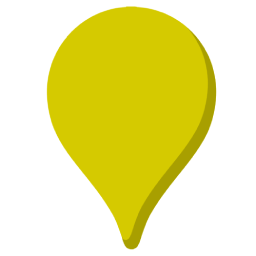
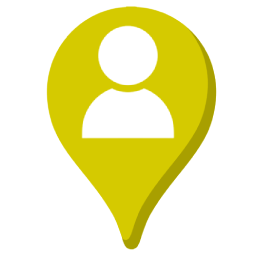
improved map

Changed region(s): [[0.3125, 0.0938, 0.6875, 0.5625]]

diff --git a/public/js/map.js b/public/js/map.js
@@ -1,0 +1,127 @@
+var map = null;
+var pointers = [];
+var userPointer = { img: 'img/me_icon.png', coord_x: 0, coord_y: 0, name: 'Nombre de Usuario' };
+var userLayer = null;
+var pointersLayer = null;
+
+
+window.onload = function () {
+    var map = initMap();
+    
+    requestGeoLocationPermission().then(() => {
+        getGeoLocation().then(position => {
+            map.setView([position.lat, position.lng], 15);
+        }).catch(error => {
+            console.error(error);
+        });
+    }).catch(error => {
+        console.error('Permission denied: ', error);
+    });
+
+    UpdateUserLocation();
+    setInterval(UpdateUserLocation, 2000);
+}
+
+function initMap() {
+    map = L.map('background', { zoomControl: false }).fitWorld();
+
+    L.tileLayer('https://tile.openstreetmap.org/{z}/{x}/{y}.png', {
+        maxZoom: 19,
+        attribution: '© OpenStreetMap'
+    }).addTo(map);
+
+    map.getContainer().style.zIndex = 0;
+
+    userLayer = L.layerGroup().addTo(map);
+    pointersLayer = L.layerGroup().addTo(map);
+
+    return map;
+}
+
+function getGeoLocation() {
+    return new Promise((resolve, reject) => {
+        if (!navigator.geolocation) {
+            reject(new Error('Geolocation is not supported by your browser'));
+        } else {
+            navigator.geolocation.getCurrentPosition((position) => {
+                resolve({
+                    lat: position.coords.latitude,
+                    lng: position.coords.longitude
+                });
+            }, () => {
+                reject(new Error('Unable to retrieve your location'));
+            });
+        }
+    });
+}
+
+function requestGeoLocationPermission() {
+    if (!navigator.permissions) {
+        // La API de Permisos no está disponible en todos los navegadores.
+        return Promise.reject(new Error('Permissions API is not available'));
+    }
+
+    return navigator.permissions.query({ name: 'geolocation' }).then(result => {
+        if (result.state === 'granted') {
+            return Promise.resolve();
+        } else if (result.state === 'prompt') {
+            return getGeoLocation().then(() => Promise.resolve());
+        } else {
+            return Promise.reject(new Error('Permission denied'));
+        }
+    });
+}
+
+function UpdateUserLocation() {
+    getGeoLocation().then(position => {
+        userPointer.coord_x = position.lat;
+        userPointer.coord_y = position.lng;
+
+        userLayer.clearLayers();
+
+        var icon = L.icon({
+            iconUrl: userPointer.img,
+            iconSize: [96, 96],
+            iconAnchor: [48, 96]
+        });
+
+        L.marker([userPointer.coord_x, userPointer.coord_y], { icon: icon })
+            .bindTooltip(userPointer.name, { // Asume que cada puntero tiene una propiedad 'name'
+                permanent: true, // El texto siempre será visible
+                direction: 'center', // El texto aparecerá en el centro del marcador
+                offset: [-80, -48], // Desplaza el texto hacia arriba para que esté en el centro de la imagen
+                className: 'my-tooltip' // Asigna una clase personalizada al tooltip
+            })
+            .addTo(userLayer);
+
+    }).catch(error => {
+        console.error(error);
+    });
+}
+
+function UpdateMapPointers() {
+    pointersLayer.clearLayers();
+    for (var i = 0; i < pointers.length; i++) {
+        var icon = L.icon({
+            iconUrl: pointers[i].img,
+            iconSize: [64, 64],
+            iconAnchor: [32, 64]
+        });
+        L.marker([pointers[i].coord_x, pointers[i].coord_y], { icon: icon })
+            .bindTooltip(pointers[i].name, { // Asume que cada puntero tiene una propiedad 'name'
+                permanent: true, // El texto siempre será visible
+                direction: 'center', // El texto aparecerá en el centro del marcador
+                offset: [-64, -32], // Desplaza el texto hacia arriba para que esté en el centro de la imagen
+                className: 'my-tooltip' // Asigna una clase personalizada al tooltip
+            })
+            .addTo(pointersLayer);
+    }
+}
+
+function zoomIn() {
+    map.zoomIn();
+}
+
+function zoomOut() {
+    map.zoomOut();
+}

diff --git a/public/css/styles.css b/public/css/styles.css
@@ -51,10 +51,19 @@ body {
 
 }
 
+#background {
+    width: 100%;
+    height: 100%;
+    background-color: rgb(159, 159, 159);
+}
+
 
 header {
     height: fit-content;
     width: 100%;
+    position: absolute;
+    top: 0;
+    left: 0;
 }
 
 .header-searchbar {
@@ -141,20 +150,24 @@ footer {
     width: 100%;
     position: absolute;
     bottom: 0;
+    pointer-events: none;
 }
 
 .footer-buttons {
     width: 100%;
     height: 250px;
     position: relative;
+    user-select: none;
+    pointer-events: none;
 }
 
 .footer-small-buttons,
 .footer-big-buttons {
-    width: 25%;
+    width: fit-content;
     height: fit-content;
     display: flex;
     flex-direction: column;
+    pointer-events: all;
 }
 
 .footer-small-buttons {
@@ -175,8 +188,8 @@ footer {
 }
 
 .footer-small-button {
-    width: 50px;
-    height: 50px;
+    width: 40px;
+    height: 40px;
     background-color: white;
     border-radius: 1000px;
     box-shadow: 0px 0px 6px rgba(0, 0, 0, 0.5);
@@ -188,14 +201,14 @@ footer {
 }
 
 .footer-small-button .img-icon {
-    width: 30px;
-    height: 30px;
+    width: 20px;
+    height: 20px;
     margin: auto;
 }
 
 .footer-big-button {
-    width: 65px;
-    height: 65px;
+    width: 55px;
+    height: 55px;
     background-color: white;
     border-radius: 1000px;
     box-shadow: 0px 0px 6px rgba(0, 0, 0, 0.5);
@@ -207,8 +220,8 @@ footer {
 }
 
 .footer-big-button .img-icon {
-    width: 45px;
-    height: 45px;
+    width: 35px;
+    height: 35px;
     margin: auto;
 }
 
@@ -255,4 +268,20 @@ footer {
 .footer-item-disabled {
     background-color: transparent;
     box-shadow: none;
+}
+
+.my-tooltip {
+    background: transparent !important;
+    border: none !important;
+    box-shadow: none !important;
+    height: auto !important;
+    width: 96px;
+    white-space: normal !important;
+    font-size: 16px;
+
+    font-family: "Rubik", sans-serif;
+    font-optical-sizing: auto;
+    font-weight: 600;
+    font-style: normal;
+    text-shadow: 1px 1px 0px white, -1px -1px 0px white, 1px -1px 0px white, -1px 1px 0px white;
 }

diff --git a/resources/views/layouts/layout.blade.php b/resources/views/layouts/layout.blade.php
@@ -14,7 +14,6 @@
     <meta http-equiv="X-UA-Compatible" content="ie=edge">
     <meta name="csrf-token" content="{{ csrf_token() }}">
     <link rel="stylesheet" href="{{ asset('css/styles.css') }}">
-    <script src="{{ asset('js/main.js') }}"></script>
     <script src="https://cdn.jsdelivr.net/npm/sweetalert2@11"></script>
     <link rel="preconnect" href="https://fonts.googleapis.com">
     <link rel="preconnect" href="https://fonts.gstatic.com" crossorigin>
@@ -25,6 +24,7 @@
     <script src="https://unpkg.com/leaflet@1.9.4/dist/leaflet.js"
     integrity="sha256-20nQCchB9co0qIjJZRGuk2/Z9VM+kNiyxNV1lvTlZBo="
     crossorigin=""></script>
+    <script src="{{ asset('js/map.js') }}"></script>
     <title>@yield('title')</title>
 </head>
 <body>
@@ -57,10 +57,10 @@
     <footer>
         <div class="footer-buttons">
             <div class="footer-small-buttons">
-                <div class="footer-small-button">
+                <div onclick="zoomIn()" class="footer-small-button">
                     <img class="img-icon" src="{{ asset('img/zoom_in_icon.png') }}" alt="zoom-in">
                 </div>
-                <div class="footer-small-button">
+                <div onclick="zoomOut()" class="footer-small-button">
                     <img class="img-icon" src="{{ asset('img/zoom_out_icon.png') }}" alt="zoom-out">
                 </div>
             </div>
